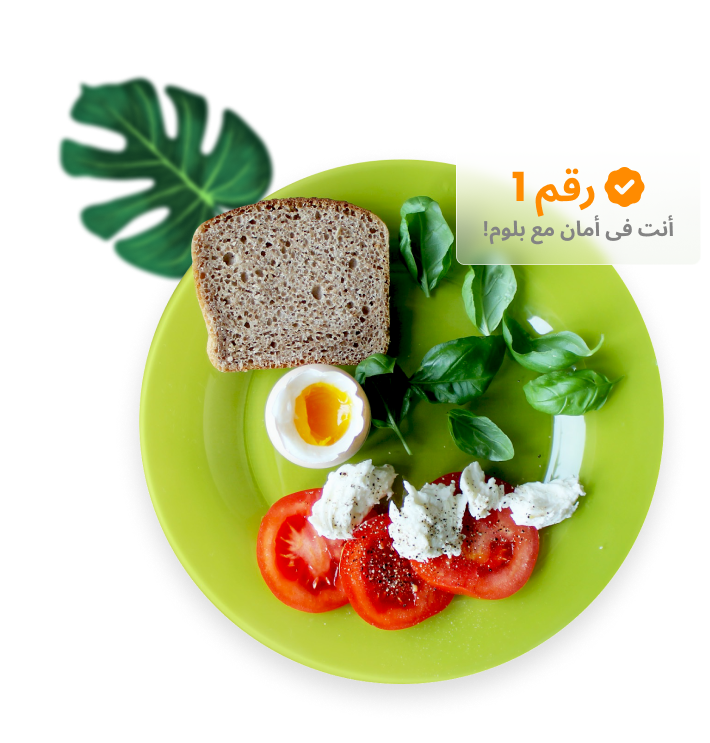
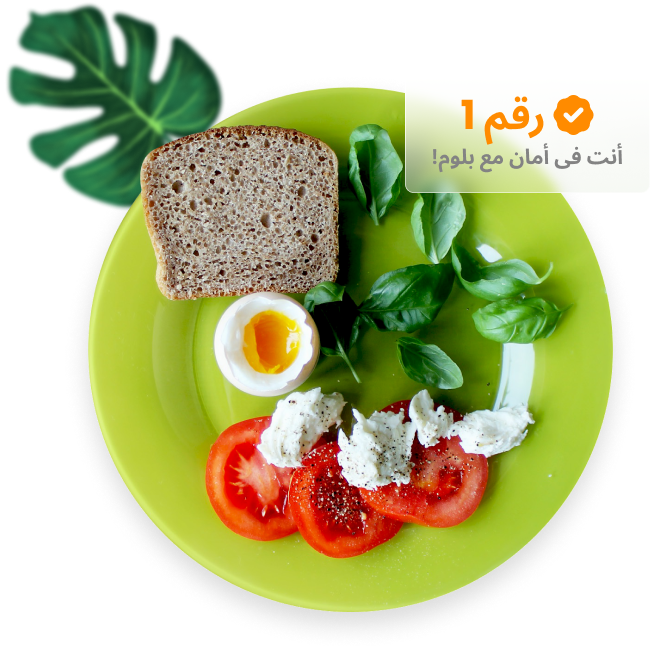
all

diff --git a/index.html b/index.html
@@ -14,10 +14,10 @@
 <body>
     <header class="main-header d-flex py-3">
         <img class="fixed-right pb-5 noise-leaf" src="assets/images/noise-green-leaf.png" />
-        <div class="container">
-            <div class="d-flex justify-content-between align-items-center mb-3">
+        <div class="container-fluid">
+            <div class="nav-bar d-flex justify-content-between align-items-center">
                 <div class="logo">
-                    <img src="assets/images/logo.png" alt="Logo" height="60px">
+                    <img src="assets/images/logo.png" alt="Logo" height="80px">
                 </div>
                 <nav class="nav d-none d-md-flex">
                     <ul class="d-flex list-unstyled m-0">
@@ -33,7 +33,7 @@
             </div>
 
             <div class="row align-items-center">
-                <div class="col-md-6 text-center text-md-start">
+                <div class="col-md-6 text-center text-md-start right-content">
                     <h1 style="text-align: right;">
                         <span style="color: #3CB57A;">بلوم ريجيم</span> يساعدكِ في اكتشاف أفضل نسخة من نفسكِ.
                     </h1>
@@ -46,7 +46,7 @@
                     </div>
                 </div>
                 <div class="col-md-6 text-center mt-4 mt-md-0">
-                    <img src="assets/images/meal.png" class="img-fluid" alt="header meal" width="80%">
+                    <img src="assets/images/meal.png" class="img-fluid mb-5" alt="header meal" width="75%">
                 </div>
             </div>
         </div>
@@ -82,38 +82,75 @@
 
 
 <section class="features py-5">
-    <div class="container">
+    <div class="container-fluid">
         <h2 class="text-center mb-5" style="font-weight: bold;">ما يميزنا</h2>
         <div class="buttons d-flex justify-content-between align-items-center">
             <button class="circle-btn" role="button" id="prev">
-                <i class="fas fa-arrow-left"></i>
+                <i class="fas fa-arrow-right"></i>
             </button>
     
     
             <button class="circle-btn" role="button" id="next">
-                <i class="fas fa-arrow-right"></i>
+                <i class="fas fa-arrow-left"></i>
             </button>
         </div>
         <div id="carousel" class="carousel">
 
-            <div id="item_1" class="hideLeft" data-pos="0">
+            <div id='item_1' class="hideLeft">
+                <div class="d-flex flex-column align-items-center justify-content-center p-3 h-100 w-100">
+                    <img class="pb-3 mb-3" src="assets/images/history.svg" width="30%" height="30%">
+                    <h5 class="fw-bold">استشارات على مدار الساعة</h5>
+                    <p class="text-center slider-description"> لا تتردد في التواصل معنا في أي وقت، فنحن هنا لمساعدتكِ في كل خطوة من رحلتك الصحية.</p>
+                </div>
+              </div>
+     
+           <div id="item_2" class="prevLeftSecond">
+            <div class="d-flex flex-column align-items-center justify-content-center p-3 h-100 w-100">
+                <img class="pb-3 mb-3" src="assets/images/heart-beat.svg" width="30%" height="30%">
+                <h5 class="fw-bold">تطبيقات تفاعلية</h5>
+                <p class="text-center slider-description" style="width: 80%;">استخدم تطبيقنا الذكي لمتابعة نظامك الصحي و النصائح المخصصة لك و تتبع تقدمكِ</p>
+            </div>
            </div>
      
-           <div id="item_2" class="prevLeftSecond" data-pos="1">
+           <div id="item_3" class="prev">
+            <div class="d-flex flex-column align-items-center justify-content-center p-3 h-100 w-100">
+                <img class="pb-3 mb-3" src="assets/images/fork_and_knife.svg" width="30%" height="30%">
+                <h5 class="fw-bold">برامج غذائية مصممة خصيصًا لكِ</h5>
+                <p class="text-center slider-description" style="width: 80%;">نقدم لكِ نظامًا غذائيًا يُعد خصيصًا لاحتياجاتك وأهدافك الصحية، ليس مجرد حمية نمطية</p>
+            </div>
            </div>
      
-           <div id="item_3" class="prev" data-pos="2">
+           <div id="item_4" class="selected">
+            <div class="d-flex flex-column align-items-center justify-content-center p-3 h-100 w-100">
+                <img class="pb-3 mb-3" src="assets/images/hand.svg" width="35%" height="35%">
+                <h5 class="fw-bold">أسعار تنافسية</h5>
+                <p class="text-center slider-description" style="width: 80%;"> نقدم لكِ برامجنا بأسعار معقولة تناسب ميزانيتك. </p>
+            </div>
            </div>
      
-           <div id="item_4" class="selected" data-pos="3">
+           <div id="item_5" class="next">
+            <div class="d-flex flex-column align-items-center justify-content-center p-3 h-100 w-100">
+                <img class="pb-3 mb-3" src="assets/images/circles.svg" width="30%" height="30%">
+                <h5 class="fw-bold">ضمان الرضا</h5>
+                <p class="text-center slider-description" style="width: 80%;">نحن ملتزمون بمساعدتكِ في تحقيق أهدافك، وإن تكنِ راضي عن نتائج برنامجك</p>
+            </div>
            </div>
      
-           <div id="item_5" class="next" data-pos="4">
+           <div id="item_6" class="nextRightSecond">
+            <div class="d-flex flex-column align-items-center justify-content-center p-3 h-100 w-100">
+                <img class="pb-3 mb-3" src="assets/images/call.svg" width="30%" height="30%">
+                <h5 class="fw-bold">مرونة في التواصل</h5>
+                <p class="text-center slider-description" style="width: 80%;">يمكنكِ التواصل معنا عبر الهاتف أو الواتساب او سناب شات او انستجرام او ماسنجر ، واختيار الطريقة التي تريحك أكثر.</p>
+            </div>
            </div>
-     
-           <div id="item_6" class="nextRightSecond" data-pos="5">
-            
-           </div>
+
+           <div id='item_7' class="hideRight">
+            <div class="d-flex flex-column align-items-center justify-content-center p-3 h-100 w-100">
+                <img class="pb-3 mb-3" src="assets/images/group.svg" width="30%" height="30%">
+                <h5 class="fw-bold">متابعتكِ خطوة بخطوة</h5>
+                <p class="text-center slider-description" style="width: 80%;"> نقدم لكِ برامجنا بأسعار معقولة تناسب ميزانيتك. </p>
+            </div>
+          </div>
      
          </div>
     </div>

diff --git a/css/style.css b/css/style.css
@@ -21,6 +21,11 @@ header {
     font-size: 14px;
 }
 
+.nav-bar {
+  width: 90%;
+  margin: auto;
+}
+
 .nav-link {
     font-size: 18px !important;
     color: black;
@@ -28,6 +33,7 @@ header {
 
 .nav-link:hover, .active {
     color: #3CB57A !important;
+    font-weight: bold;
 }
 
 p {
@@ -123,60 +129,68 @@ h4 {
     position: absolute;
     transition: transform 400ms, left 400ms, opacity 400ms, z-index 0s;
     opacity: 1;
+  }
+
+  #item_1, #item_2, #item_3, #item_4, #item_5, #item_6, #item_7, #item_8 {
     background-color: white;
     border-radius: 50px;
     box-shadow: 0px 0px 45px 2px rgba(0, 0, 0, 0.1);
   }
   #carousel div.hideLeft {
-    left: 0%;
+    left: -3%;
     top: 10%;
     transform: translateY(50%) translateX(-50%);
-    width: 300px;
-    height: 300px;
+    width: 23vw;
+    height: 23vw;
+    opacity: 0;
   }
   #carousel div.hideRight {
     left: 100%;
     transform: translateY(50%) translateX(-50%);
-    width: 300px;
-    height: 300px;
+    width: 23vw;
+    height: 23vw;
+    opacity: 0;
   }
   #carousel div.prev {
     z-index: 5;
-    left: 24%;
+    left: 21%;
     top: 10%;
     transform: translateY(50px) translateX(-50%);
-    width: 300px;
-    height: 300px;
+    width: 23vw;
+    height: 23vw;
   }
   #carousel div.prevLeftSecond {
     z-index: 4;
-    left: 1.7%;
+    left: -3%;
+    top: 10%;
     transform: translateY(50%) translateX(-50%);
+    width: 23vw;
+    height: 23vw;
   }
   #carousel div.selected {
     z-index: 10;
-    left: 50%;
+    left: 48.6%;
     top: 10px;
     transform: translateY(0px) translateX(-50%);
-    width: 350px;
-    height: 350px;
+    width: 30vw;
+    height: 30vw;
   }
   #carousel div.next {
     z-index: 5;
-    left: 76%;
+    left: 76.7%;
     top: 10%;
     transform: translateY(50px) translateX(-50%);
-    width: 300px;
-    height: 300px;
+    width: 24vw;
+    height: 24vw;
   }
   #carousel div.nextRightSecond {
     z-index: 4;
-    left: 99.8%;
+    left: 101.8%;
     top: 10%;
     transform: translateY(50%) translateX(-50%);
     opacity: 0.7;
-    width: 300px;
-    height: 300px;
+    width: 24vw;
+    height: 24vw;
   }
   
   /*previous or next buttons css*/
@@ -186,9 +200,13 @@ h4 {
     margin: auto;
   }
 
+  a {
+    color: #3CB57A;
+  }
+
   .circle-btn {
-    width: 50px;
-    height: 50px;
+    width: 85px;
+    height: 85px;
     border-radius: 50%;
     background-color: #3CB57A;
     display: flex;
@@ -200,6 +218,15 @@ h4 {
   }
 
   .circle-btn i {
-    font-size: 20px;
+    font-size: 30px;
     color: white;
+  }
+
+  .right-content {
+    padding-right: 8vw;
+  }
+
+  .slider-description {
+    margin-top: 5px;
+    width: 80%;
   }
